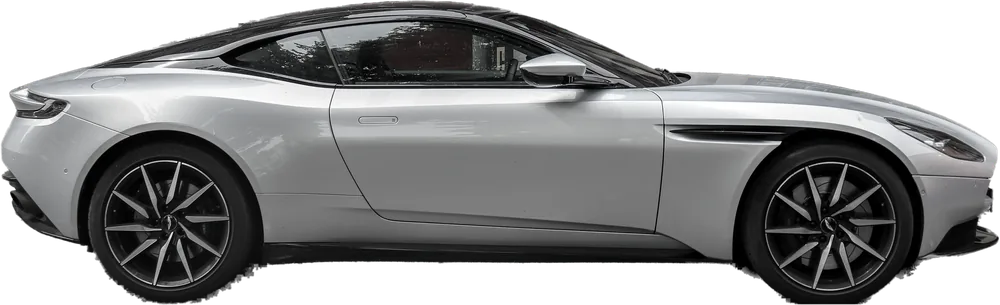
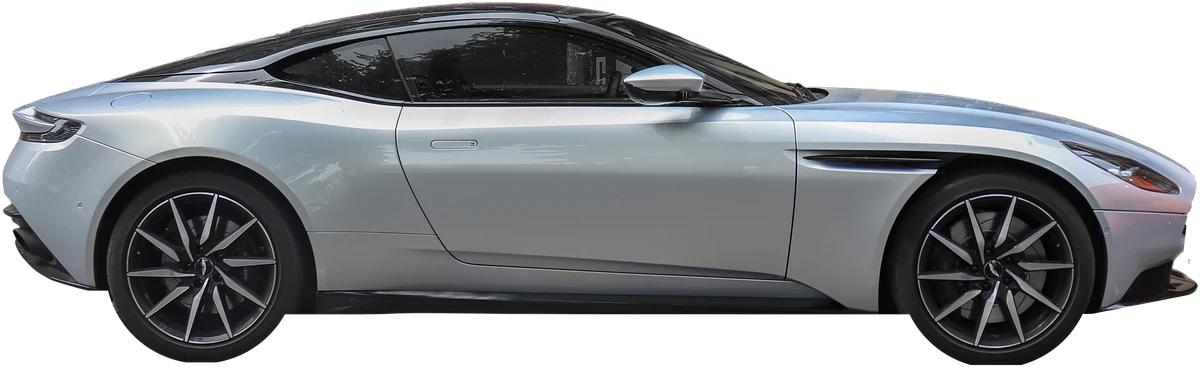
Portada: recorte del auto rehecho en alta resolución
Llantas con círculo exacto y huella plana, sin la sombra de la calle bajo
la carrocería, borde delantero limpio, vidrios polarizados sin el reflejo
de la fachada y versiones 2400/1200 px más nítidas.

diff --git a/index.html b/index.html
@@ -96,7 +96,7 @@
       </div>
 
       <figure class="hero__auto">
-        <img src="assets/portada/auto.webp" srcset="assets/portada/auto-movil.webp 1000w, assets/portada/auto.webp 2000w" sizes="(max-width: 899px) 100vw, 64vw" width="2000" height="609" alt="Aston Martin plateado de perfil" data-i18n-attr="alt:hero.autoAlt" fetchpriority="high" decoding="async">
+        <img src="assets/portada/auto.webp" srcset="assets/portada/auto-movil.webp 1200w, assets/portada/auto.webp 2400w" sizes="(max-width: 899px) 100vw, 64vw" width="2400" height="735" alt="Aston Martin plateado de perfil" data-i18n-attr="alt:hero.autoAlt" fetchpriority="high" decoding="async">
         <span class="hero__sombra" aria-hidden="true"></span>
       </figure>
 

diff --git a/assets/CREDITOS.md b/assets/CREDITOS.md
@@ -2,8 +2,8 @@
 
 - **Auto de la portada** (`assets/portada/`): "2018 Aston Martin DB11 V8 Automatic 4.0 Side" de Vauxford,
   [Wikimedia Commons](https://commons.wikimedia.org/wiki/File:2018_Aston_Martin_DB11_V8_Automatic_4.0_Side.jpg),
-  licencia [CC BY-SA 4.0](https://creativecommons.org/licenses/by-sa/4.0/). Recortado sin fondo y con
-  corrección de color; la versión modificada se comparte bajo la misma licencia.
+  licencia [CC BY-SA 4.0](https://creativecommons.org/licenses/by-sa/4.0/). Recortado sin fondo (llantas redondeadas,
+  sin la sombra de la calle y con vidrios oscurecidos); la versión modificada se comparte bajo la misma licencia.
 - **Ilustración de conócenos** (`assets/ilustraciones/`): propia, generada con `tools/ilustraciones.py`.
 - **Fotos de los autos de ejemplo** (`assets/autos/`), de Wikimedia Commons (reemplazalas por las fotos reales):
 
